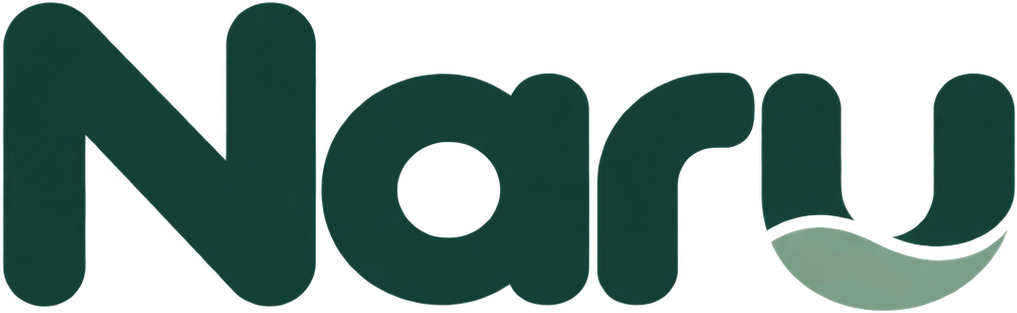
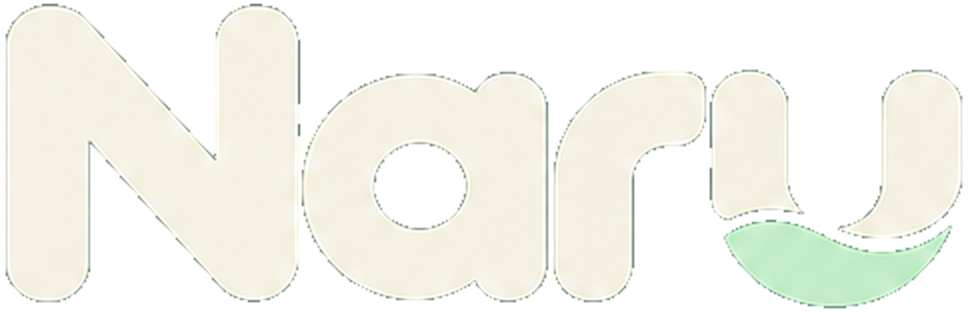
feat: 사이드바 로고를 크림색 워드마크 단독 배치로 변경하고 크기와 정렬을 조정한다

diff --git a/index.html b/index.html
@@ -1,2 +1,2 @@
 <!doctype html>
-<html lang="en"><head><meta charset="UTF-8"/><meta name="viewport" content="width=device-width, initial-scale=1.0"/><meta name="theme-color" content="#163d35"/><title>Naru</title><link rel="icon" type="image/png" sizes="32x32" href="/brand/naru-icon-32.png?v=20261017"/><link rel="icon" type="image/png" sizes="64x64" href="/brand/naru-icon-64.png?v=20261017"/><link rel="apple-touch-icon" href="/brand/naru-mark.png?v=20261017"/></head><body><div id="root"></div><script type="module" src="/src/main.jsx"></script></body></html>
+<html lang="en"><head><meta charset="UTF-8"/><meta name="viewport" content="width=device-width, initial-scale=1.0"/><meta name="theme-color" content="#163d35"/><title>Naru</title><link rel="icon" type="image/png" sizes="32x32" href="/brand/naru-icon-32.png?v=20261017c"/><link rel="icon" type="image/png" sizes="64x64" href="/brand/naru-icon-64.png?v=20261017c"/><link rel="apple-touch-icon" href="/brand/naru-mark.png?v=20261017c"/></head><body><div id="root"></div><script type="module" src="/src/main.jsx"></script></body></html>

diff --git a/src/main.jsx b/src/main.jsx
@@ -305,11 +305,9 @@ function Shell() {
           >
             <Link
               to="/"
-              className="mx-3.5 mb-11 flex flex-none items-center gap-2.5 rounded-[10px] hover:bg-[#ffffff0b] max-desktop:ml-3 max-tablet:mb-6"
+              className="mx-auto mb-11 flex w-fit max-w-full flex-none items-center rounded-[10px] hover:bg-[#ffffff0b] max-tablet:mb-6"
             >
-              <span className="flex w-full items-center justify-center rounded-[10px] bg-[#e8eedf] px-3 py-2.5">
-                <img className="h-auto w-full" src="/brand/naru-wordmark.png?v=20261017" alt="Naru" />
-              </span>
+              <img className="h-auto w-[100px] max-w-full" src="/brand/naru-wordmark.png?v=20261017c" alt="Naru" />
             </Link>
             <nav aria-label={t('주요 메뉴')} className="flex flex-col gap-1.25">
               {nav.map(([to, label, Icon]) => (

diff --git a/src/ui.jsx b/src/ui.jsx
@@ -283,8 +283,8 @@ export function RuntimeEmpty() {
     );
   return (
     <div className="flex min-h-[calc(100dvh-86px)] flex-col items-center justify-center px-7.5 py-15 text-center max-tablet:min-h-[calc(100dvh-68px)]">
-      <div className="mb-7 flex h-23.5 w-23.5 -rotate-5 items-center justify-center rounded-[26px] bg-[#e8eedf]">
-        <img className="h-16 w-16 rotate-5" src="/brand/naru-mark.png?v=20261017" alt="" />
+      <div className="mb-7 flex h-23.5 w-23.5 -rotate-5 items-center justify-center rounded-[26px] bg-brand">
+        <img className="h-16 w-16 rotate-5" src="/brand/naru-mark.png?v=20261017c" alt="" />
       </div>
       <h2 className="mb-7 text-[34px] max-tablet:text-[28px]">
         {status?.installed
